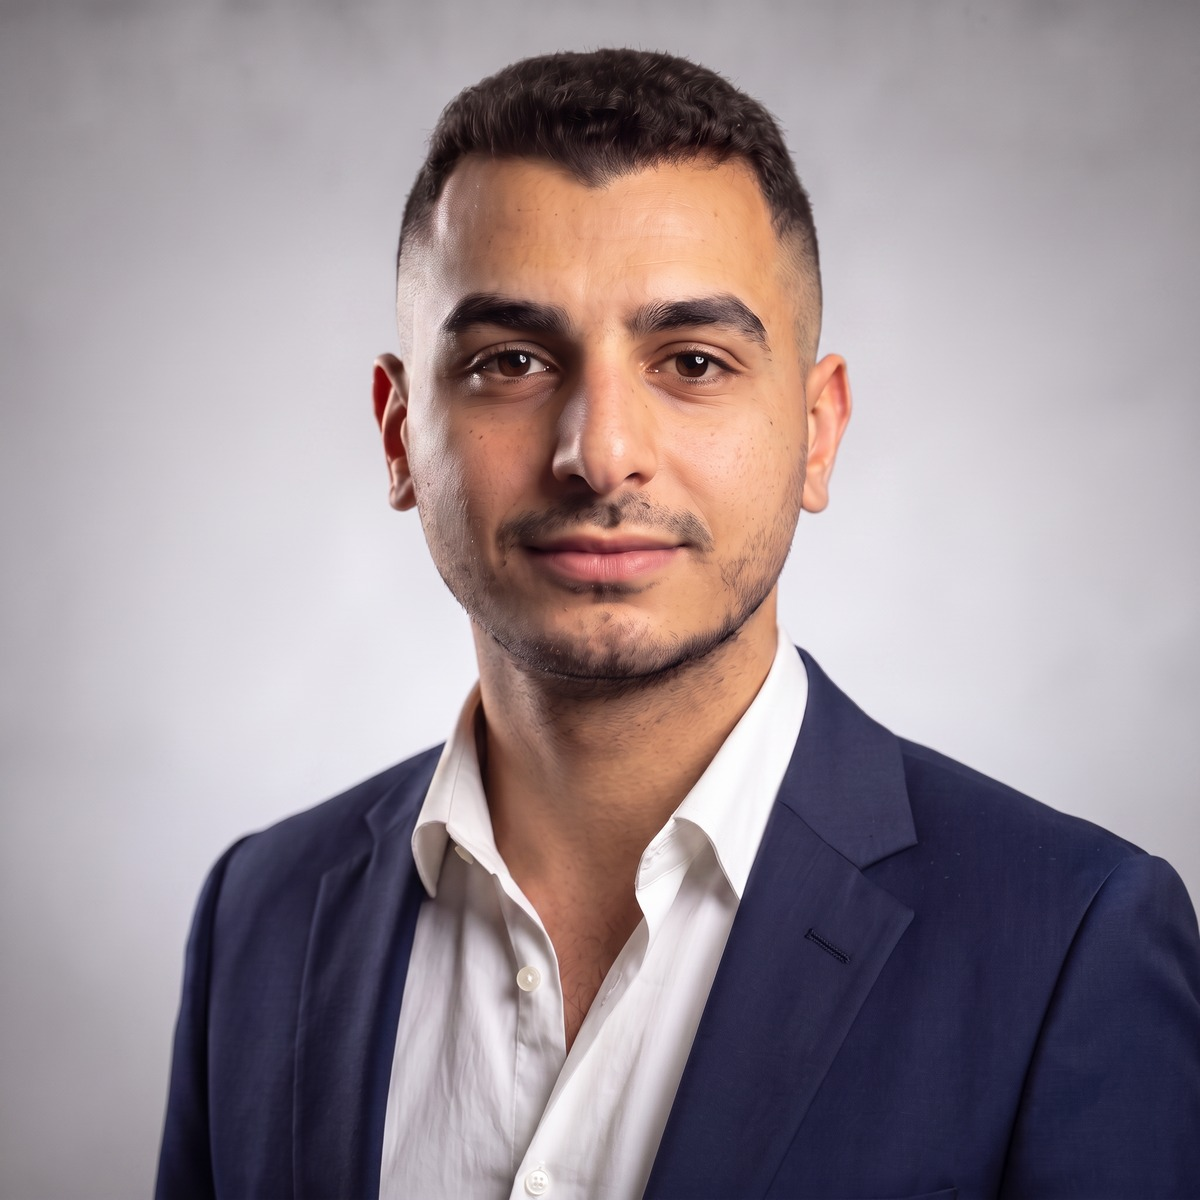
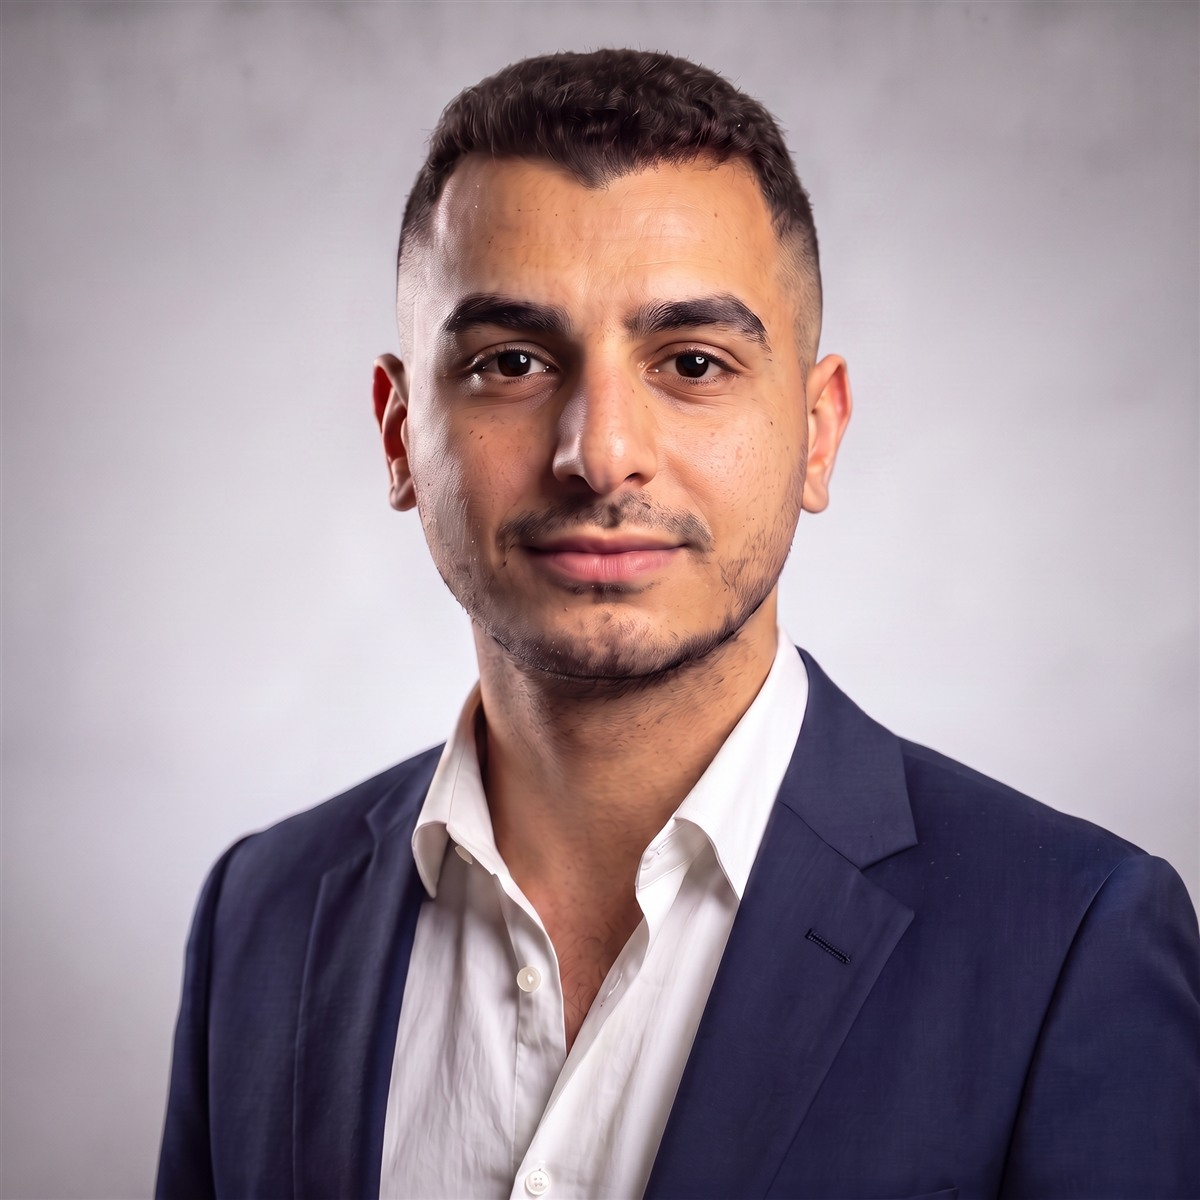
Update portrait with more natural, less AI-processed version
Corrects eye color to match real dark brown eyes and restores natural
skin/hair texture, same pose and crop as before.

diff --git a/index.html b/index.html
@@ -449,7 +449,7 @@
 <!-- HERO -->
 <div class="overlay" id="hero">
   <div class="h-inner">
-    <div class="portrait"><img src="assets/portrait.jpg?v=6" alt="Khaled Abdelhadi" /></div>
+    <div class="portrait"><img src="assets/portrait.jpg?v=7" alt="Khaled Abdelhadi" /></div>
     <div id="route"><div class="r-title">The route</div><ol></ol></div>
     <div class="h-eyebrow">Interactive CV</div>
     <h1><span class="w"><i style="--k:0">K</i><i style="--k:1">h</i><i style="--k:2">a</i><i style="--k:3">l</i><i style="--k:4">e</i><i style="--k:5">d</i></span><b><i style="--k:7">A</i><i style="--k:8">b</i><i style="--k:9">d</i><i style="--k:10">e</i><i style="--k:11">l</i><i style="--k:12">h</i><i style="--k:13">a</i><i style="--k:14">d</i><i style="--k:15">i</i></b></h1>
